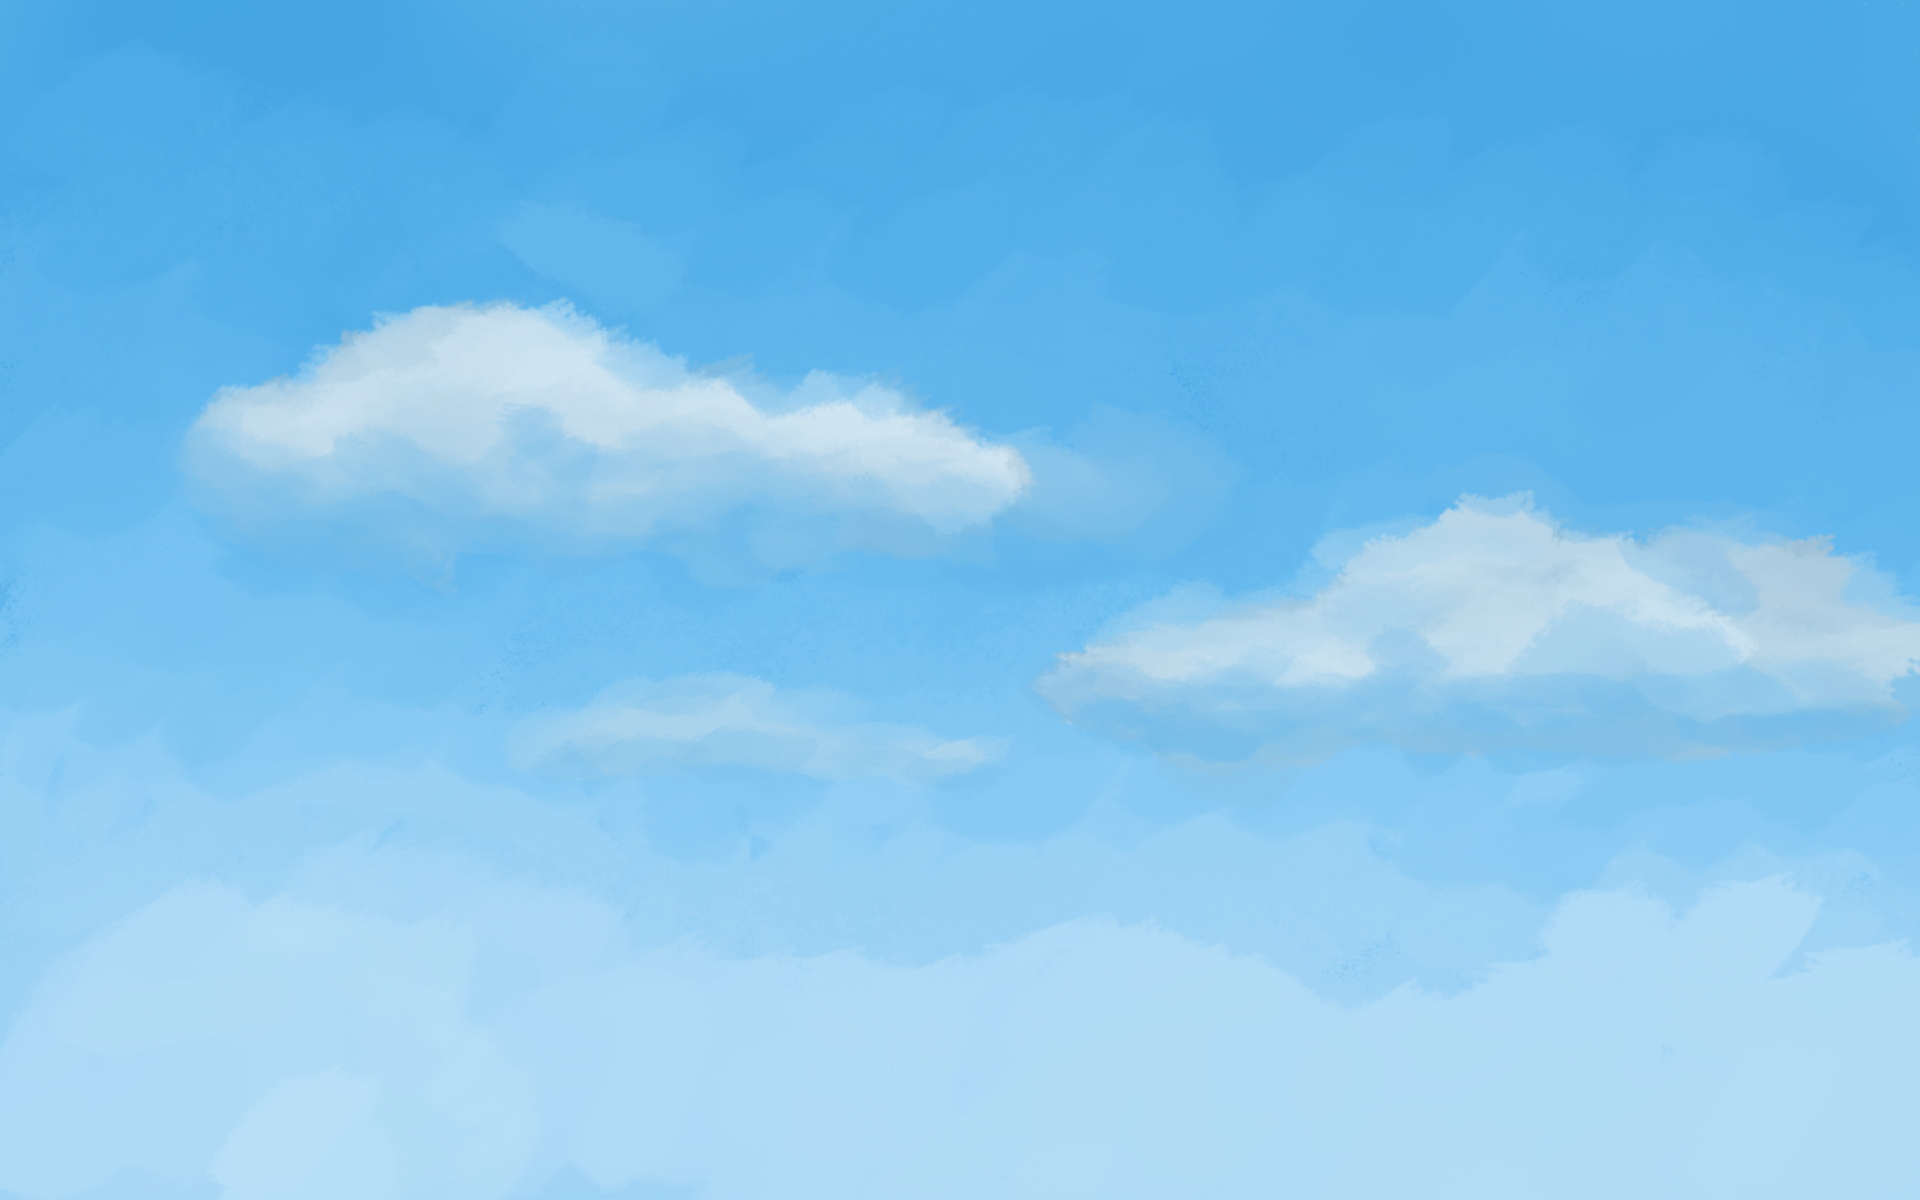
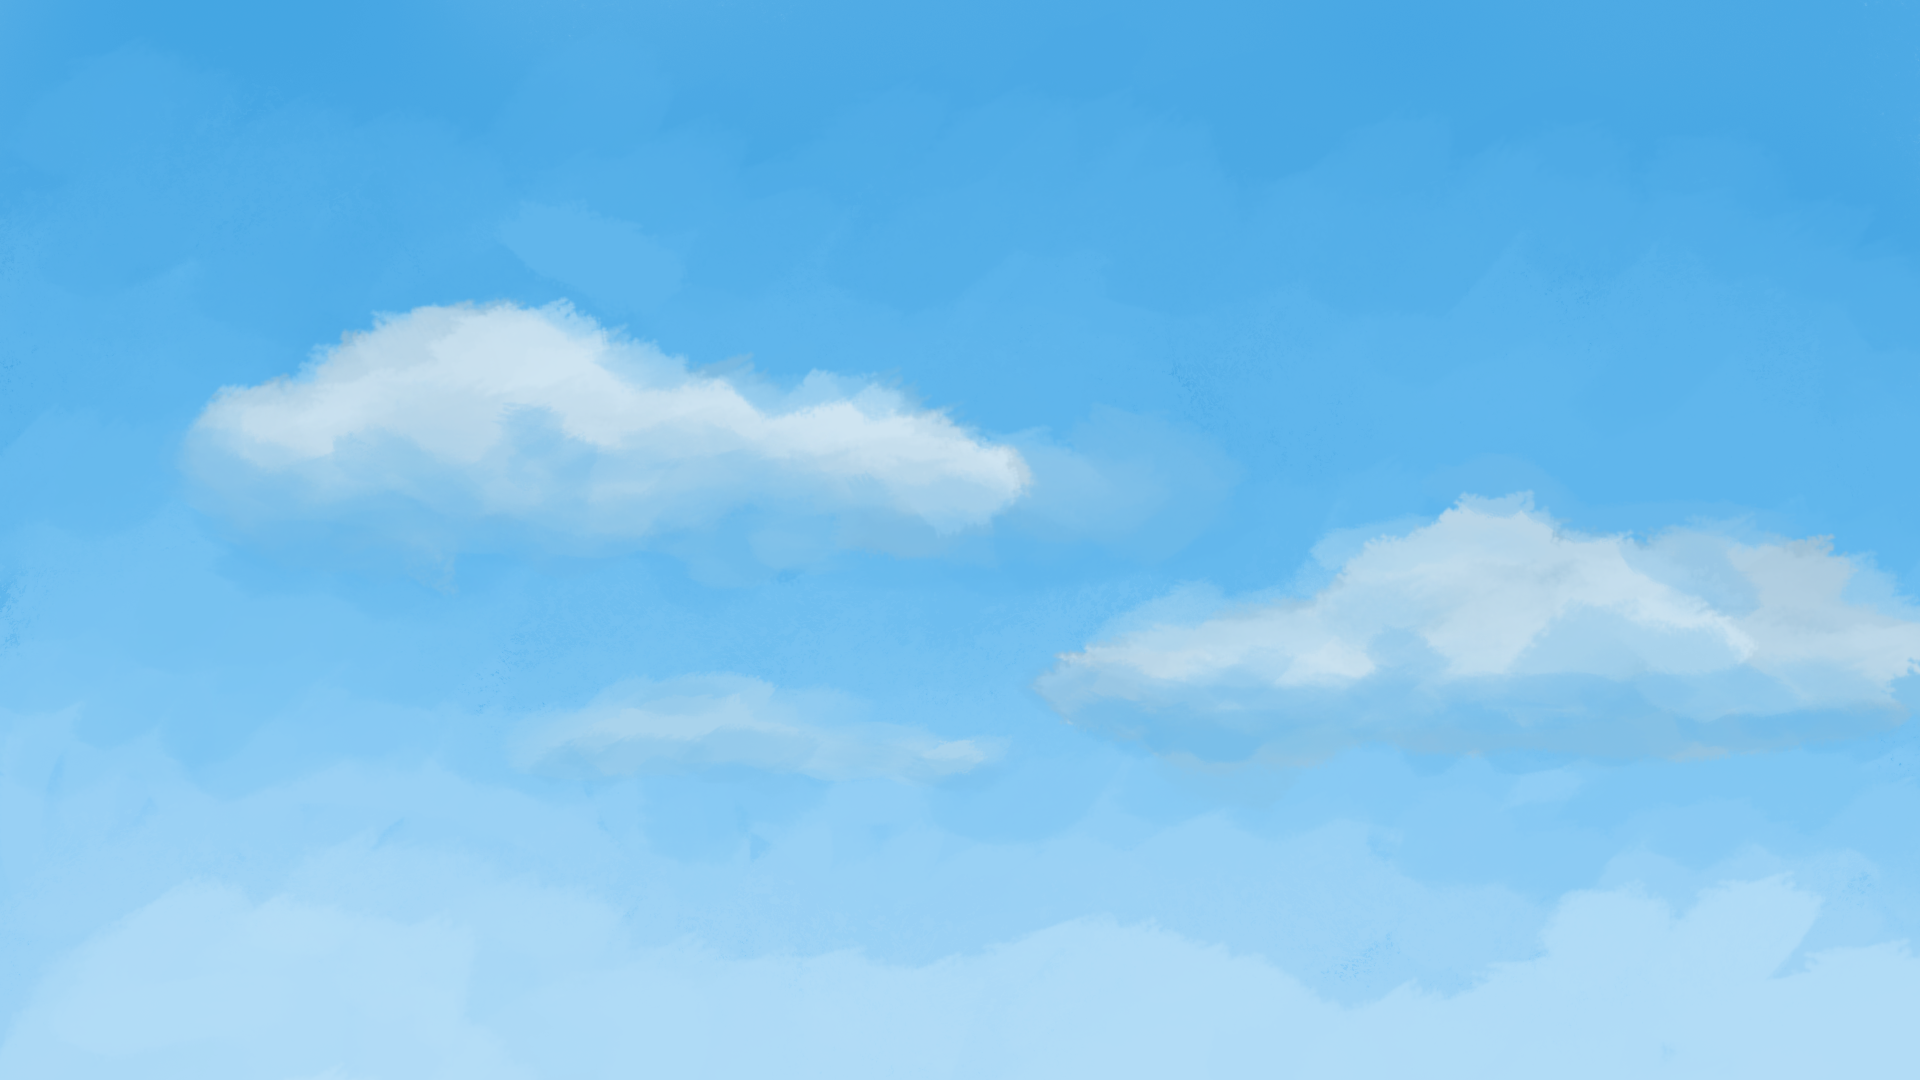
ajustes na tela inicial para ser responvisa

diff --git a/public/css/style.css b/public/css/style.css
@@ -1,9 +1,11 @@
 body{
-    background: url('/img/background_gui.png');
+    background: url('/img/clouds.png');
     background-size: cover;
     background-position: center center;
-    background-repeat: no-repeat;
+    background-repeat: repeat-x;
     font-family: Verdana, Geneva, Tahoma, sans-serif;
+    height: 100%;
+    background-color: #4eaae5;
 }
 #container{
     width: 400px;
